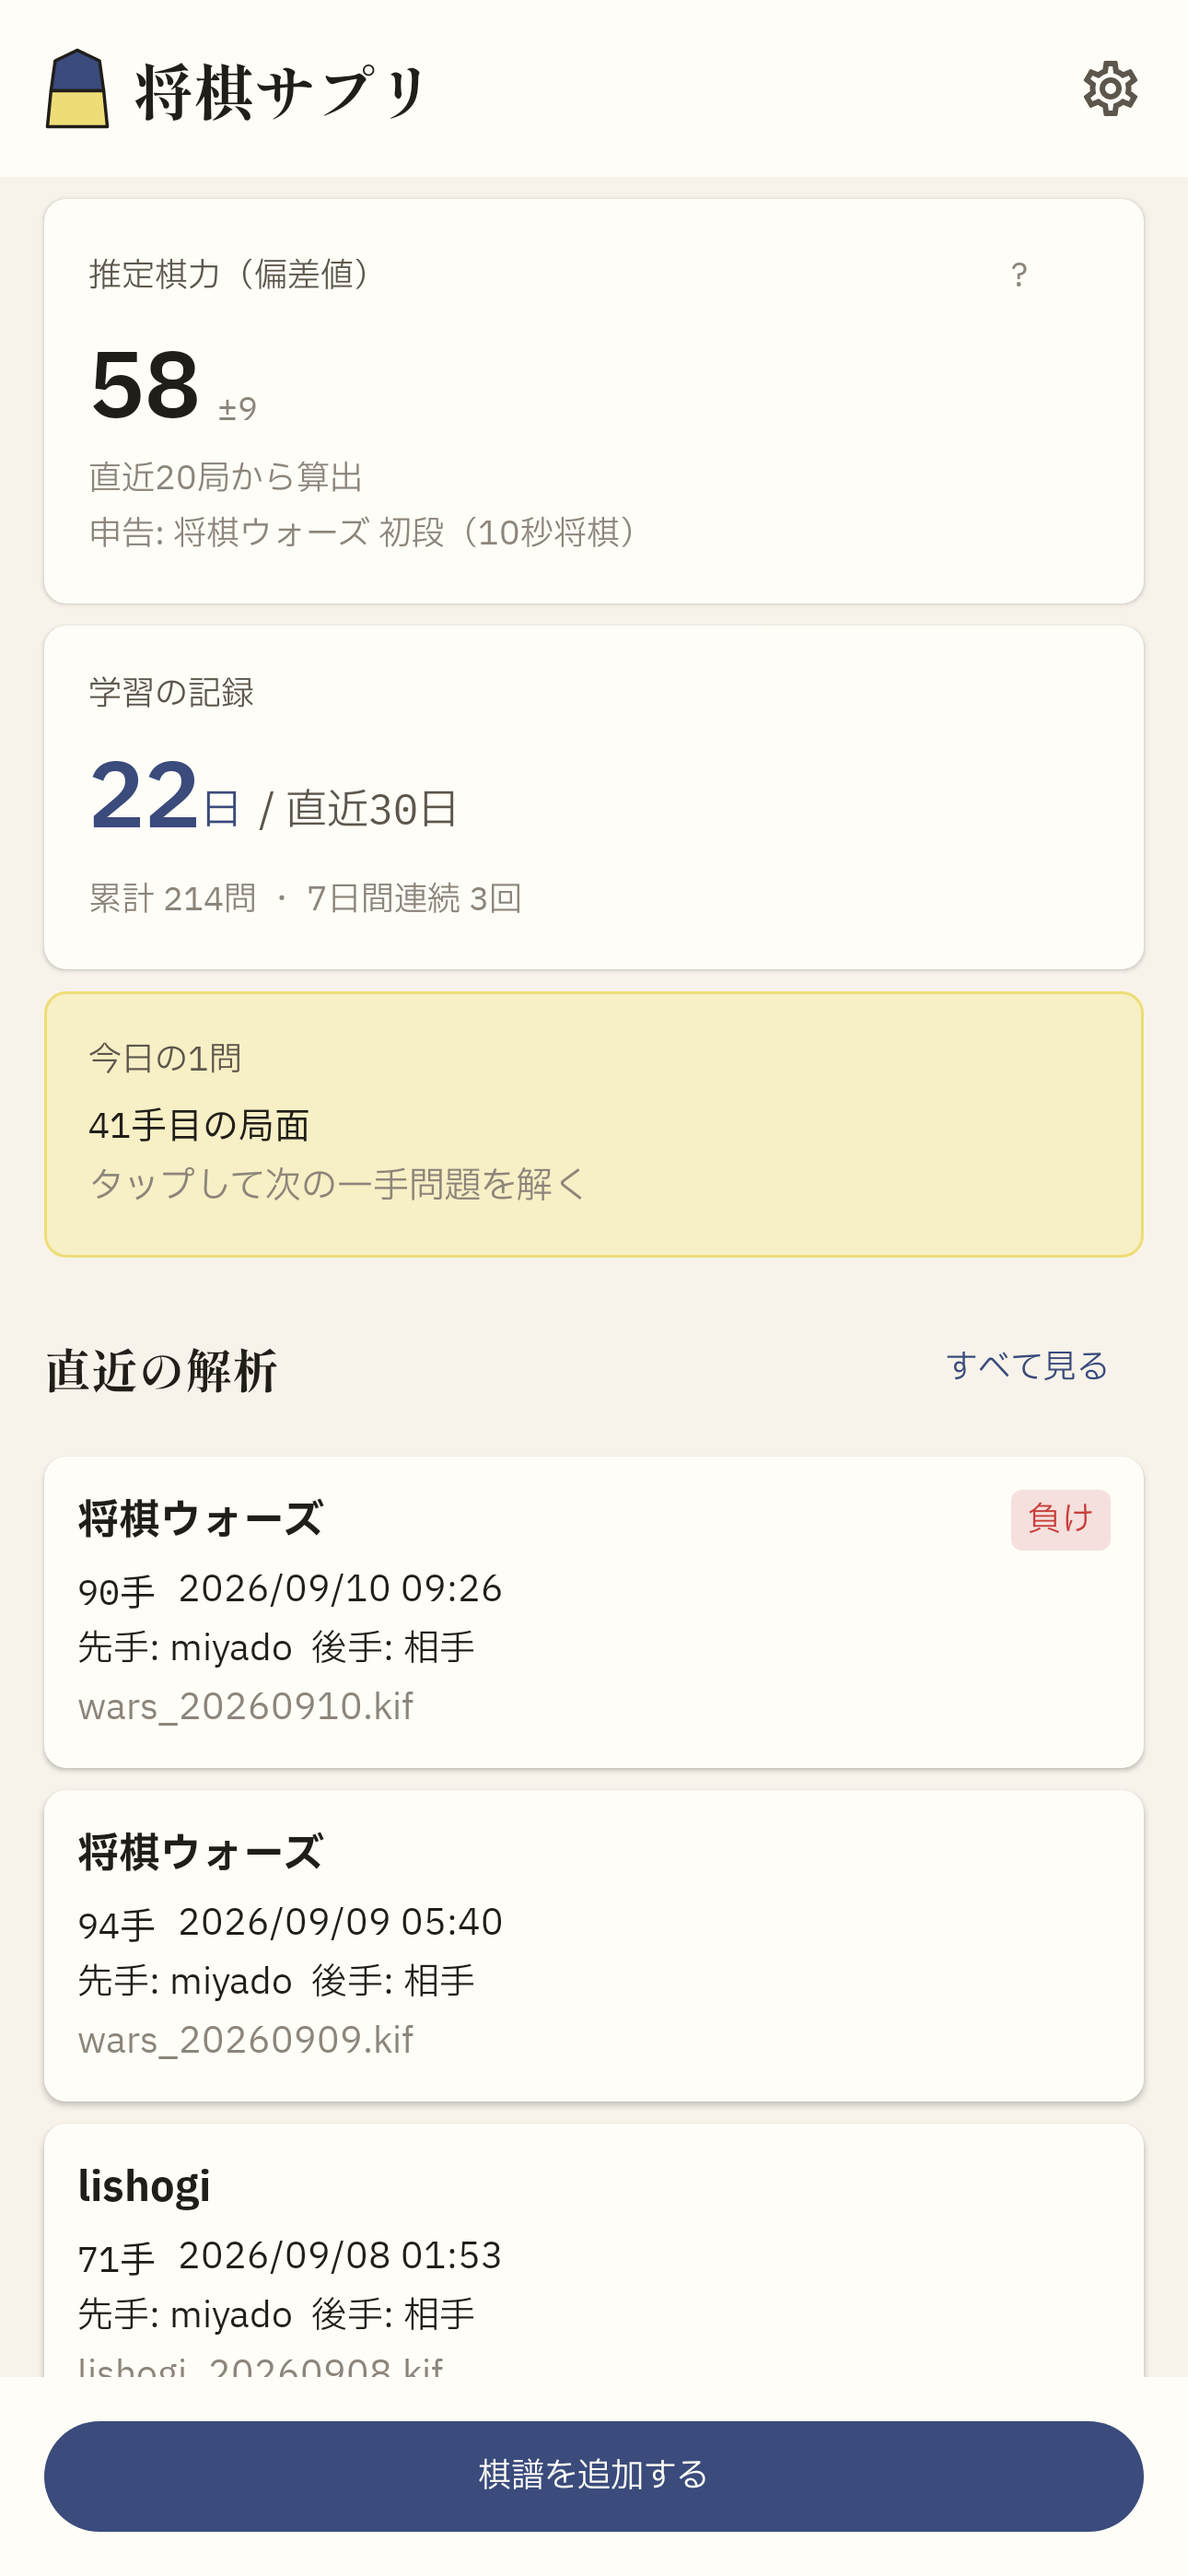
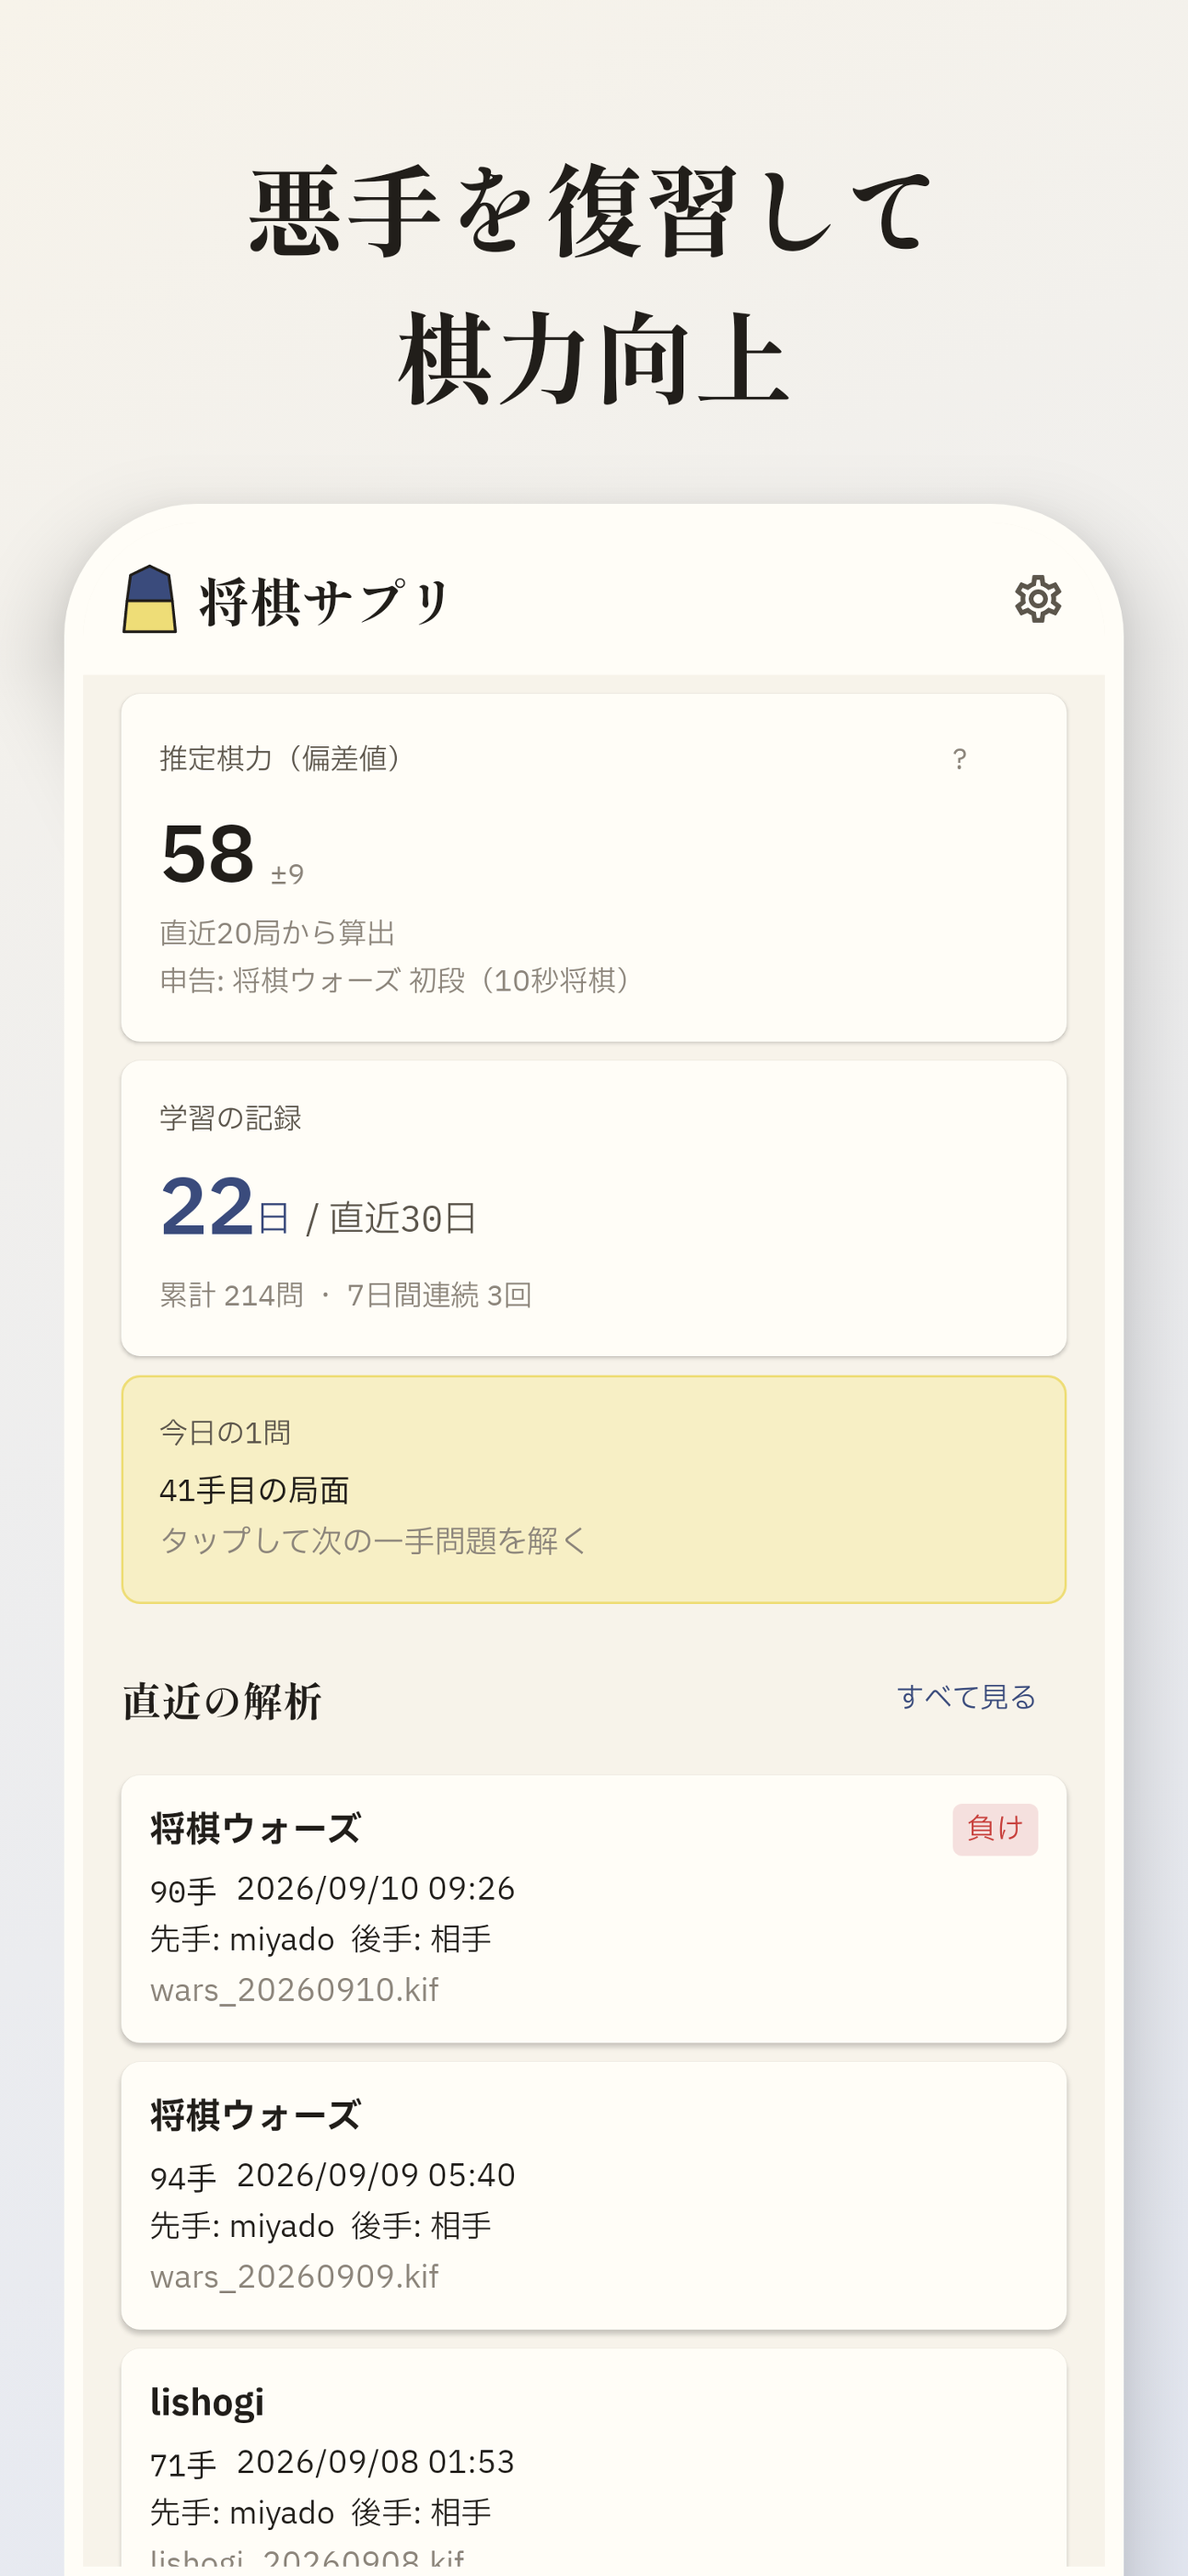
ストア画像に説明文を載せる
画面だけを7枚並べても、何ができるアプリなのかは伝わらない。
1枚ごとに見出しを立て、その下に端末の枠へ収めた画面を置く。

枚数は6枚に絞り、検討モードとレポートのダークを落として
ホームのダークを入れる（説明文の対象に合わせた）。

台紙は端末より大きいので、6.9インチ枠より大きく描いてから
書き出し時に縮める。端末の中身を実寸のレイアウトのまま出すため、
Compose側では縮小しない。

diff --git a/app/androidApp/src/test/kotlin/dev/miyado/shogisupplement/ui/StoreImageTest.kt b/app/androidApp/src/test/kotlin/dev/miyado/shogisupplement/ui/StoreImageTest.kt
@@ -1,7 +1,29 @@
 package dev.miyado.shogisupplement.ui
 
+import androidx.compose.foundation.background
+import androidx.compose.foundation.layout.Box
+import androidx.compose.foundation.layout.fillMaxSize
+import androidx.compose.foundation.layout.fillMaxWidth
+import androidx.compose.foundation.layout.offset
+import androidx.compose.foundation.layout.padding
+import androidx.compose.foundation.layout.requiredHeight
+import androidx.compose.foundation.layout.requiredSize
+import androidx.compose.foundation.layout.requiredWidth
+import androidx.compose.foundation.shape.RoundedCornerShape
 import androidx.compose.material3.Surface
+import androidx.compose.material3.Text
 import androidx.compose.runtime.Composable
+import androidx.compose.ui.Alignment
+import androidx.compose.ui.Modifier
+import androidx.compose.ui.draw.clip
+import androidx.compose.ui.draw.shadow
+import androidx.compose.ui.geometry.Offset
+import androidx.compose.ui.graphics.Brush
+import androidx.compose.ui.text.TextStyle
+import androidx.compose.ui.text.font.FontWeight
+import androidx.compose.ui.text.style.TextAlign
+import androidx.compose.ui.unit.dp
+import androidx.compose.ui.unit.sp
 import com.github.takahirom.roborazzi.ExperimentalRoborazziApi
 import com.github.takahirom.roborazzi.RoborazziOptions
 import com.github.takahirom.roborazzi.captureRoboImage
@@ -25,7 +47,13 @@ import dev.miyado.shogisupplement.ui.report.StudyCandidate
 import dev.miyado.shogisupplement.ui.report.StudyEvalState
 import dev.miyado.shogisupplement.ui.report.StudyOrigin
 import dev.miyado.shogisupplement.ui.report.StudyState
+import dev.miyado.shogisupplement.ui.theme.LightBg
+import dev.miyado.shogisupplement.ui.theme.LightInk
+import dev.miyado.shogisupplement.ui.theme.LightPrimarySoft
+import dev.miyado.shogisupplement.ui.theme.LightSurface
+import dev.miyado.shogisupplement.ui.theme.ShipporiMinchoFamily
 import dev.miyado.shogisupplement.ui.theme.ShogiTheme
+import java.awt.RenderingHints
 import java.awt.image.BufferedImage
 import java.io.File
 import javax.imageio.ImageIO
@@ -37,14 +65,14 @@ import org.robolectric.RobolectricTestRunner
 import org.robolectric.annotation.Config
 import org.robolectric.annotation.GraphicsMode
 
-// 430x932dp・xxhdpi = 1290x2796px は App Store Connect の6.9インチ枠。
 // Why not ステータスバーとホームインジケータも描く: OSのUIを描き足すと実機を騙ることになる。
-/** ストア掲載画像を書き出す。 */
+/** ストア掲載画像（見出し＋端末の枠）を書き出す。 */
 @RunWith(RobolectricTestRunner::class)
 @GraphicsMode(GraphicsMode.Mode.NATIVE)
 @Config(
     sdk = [34],
-    qualifiers = "w430dp-h932dp-xxhdpi",
+    // 台紙は端末（[PhoneWidth]）より大きく、縦横比は [OutputWidthPx]:[OutputHeightPx] に合わせる。
+    qualifiers = "w500dp-h1084dp-xxhdpi",
     application = android.app.Application::class,
 )
 class StoreImageTest {
@@ -58,32 +86,39 @@ class StoreImageTest {
         assumeTrue(System.getProperty(STORE_IMAGE_PROPERTY) == "true")
     }
 
-    private fun capture(fileName: String, content: @Composable () -> Unit) {
+    private fun capture(fileName: String, caption: String, screen: @Composable () -> Unit) {
         val path = "../iosApp/fastlane/screenshots/ja/$fileName.png"
-        captureRoboImage(filePath = path, roborazziOptions = storeRoborazziOptions, content = content)
-        dropAlphaChannel(File(path))
+        captureRoboImage(filePath = path, roborazziOptions = storeRoborazziOptions) {
+            StoreCard(caption = caption, screen = screen)
+        }
+        finalizeImage(File(path))
     }
 
-    /** App Store Connect は透過を含むスクリーンショットを受け付けない。書き出しはRGBAなので落とす。 */
-    private fun dropAlphaChannel(file: File) {
+    /**
+     * 提出枠へ縮小し、アルファチャンネルを落とす。
+     * Why not 提出枠のまま描く: 端末の中身を実寸（[PhoneWidth]）で組み立てたいので、
+     * 台紙は端末より大きい。App Store Connect は透過を含む画像も受け付けない。
+     */
+    private fun finalizeImage(file: File) {
         val source = ImageIO.read(file)
-        val opaque = BufferedImage(source.width, source.height, BufferedImage.TYPE_INT_RGB)
-        opaque.createGraphics().apply {
-            drawImage(source, 0, 0, null)
+        val output = BufferedImage(OutputWidthPx, OutputHeightPx, BufferedImage.TYPE_INT_RGB)
+        output.createGraphics().apply {
+            setRenderingHint(RenderingHints.KEY_INTERPOLATION, RenderingHints.VALUE_INTERPOLATION_BICUBIC)
+            setRenderingHint(RenderingHints.KEY_RENDERING, RenderingHints.VALUE_RENDER_QUALITY)
+            setRenderingHint(RenderingHints.KEY_ANTIALIASING, RenderingHints.VALUE_ANTIALIAS_ON)
+            drawImage(source, 0, 0, OutputWidthPx, OutputHeightPx, null)
             dispose()
         }
-        ImageIO.write(opaque, "png", file)
+        ImageIO.write(output, "png", file)
     }
 
-    private fun themed(content: @Composable () -> Unit): @Composable () -> Unit = {
-        ShogiTheme { Surface { content() } }
-    }
 
     @Test
     fun `01 home`() {
         capture(
             "01_home",
-            themed {
+            "悪手を復習して\n棋力向上",
+            {
                 HomeScreen(
                     pastGames = storeGames,
                     isLoggedIn = true,
@@ -109,25 +144,52 @@ class StoreImageTest {
     }
 
     @Test
-    fun `02 report graph`() {
-        capture("02_report_graph", themed { StoreReport() })
+    @Config(qualifiers = "+night")
+    fun `02 home dark`() {
+        capture(
+            "02_home_dark",
+            "ダークモードも対応",
+            {
+                HomeScreen(
+                    pastGames = storeGames,
+                    isLoggedIn = true,
+                    strengthCard = StrengthCardData(
+                        displayText = "58 ±9",
+                        detailText = "直近20局から算出",
+                        declaredRankLine = "申告: 将棋ウォーズ 初段（10秒将棋）",
+                    ),
+                    todaysDrillHint = TodaysDrillHint(ply = 41L),
+                    drillRecordCard = DrillRecordCardData(
+                        activeDaysInWindow = 22,
+                        windowDays = 30,
+                        totalAttempts = 214,
+                        weekStreakCount = 3,
+                    ),
+                    onOpenKif = {},
+                    onGameClick = {},
+                    onStartDrill = {},
+                    onViewAllGames = {},
+                )
+            },
+        )
     }
 
     @Test
-    fun `03 blunder list`() {
-        capture("03_blunder_list", themed { StoreReport(showBlunderList = true) })
+    fun `03 report graph`() {
+        capture("03_report_graph", "形勢をグラフで確認") { StoreReport() }
     }
 
     @Test
-    fun `04 study`() {
-        capture("04_study", themed { StoreReport(studyState = storeStudyState) })
+    fun `04 blunder list`() {
+        capture("04_blunder_list", "ポイントとなる\n悪手をピックアップ") { StoreReport(showBlunderList = true) }
     }
 
     @Test
     fun `05 drill question`() {
         capture(
             "05_drill_question",
-            themed {
+            "自分の棋譜から\n問題を出題",
+            {
                 DrillQuestionContent(
                     state = DrillUiState.Question(
                         blunder = storeBlunder,
@@ -151,7 +213,8 @@ class StoreImageTest {
     fun `06 drill result`() {
         capture(
             "06_drill_result",
-            themed {
+            "正解は AI で判定",
+            {
                 DrillResultContent(
                     result = DrillJudge.DrillResult(
                         isCorrect = true,
@@ -166,12 +229,6 @@ class StoreImageTest {
                 )
             },
         )
-    }
-
-    @Test
-    @Config(qualifiers = "+night")
-    fun `07 report dark`() {
-        capture("07_report_dark", themed { StoreReport() })
     }
 
     @Composable
@@ -197,6 +254,84 @@ class StoreImageTest {
 
 /** ビルド側（androidApp/build.gradle.kts）がテストJVMへ渡す。 */
 private const val STORE_IMAGE_PROPERTY = "shogi.storeImages"
+
+/** App Store Connect の6.9インチ枠。 */
+private const val OutputWidthPx = 1290
+private const val OutputHeightPx = 2796
+
+/** 端末の中身は6.9インチの実寸で組み立てる。縮小は画像にしてから行う。 */
+private val PhoneWidth = 430.dp
+private val PhoneHeight = 932.dp
+
+// 6枚を並べたときにキャプションの行数で端末の位置がずれないよう、見出し帯の高さは固定する。
+private val CaptionTop = 56.dp
+private val CaptionBandHeight = 136.dp
+private val DeviceTop = CaptionTop + CaptionBandHeight + 20.dp
+
+private val BezelWidth = 8.dp
+
+/**
+ * 見出し＋端末の枠の2段。端末は台紙の下端で切れる長さにして、画面の続きがあることを示す。
+ * 背景・文字色をテーマから取らない理由: ダークモードの端末を明るい台紙に載せる枚があるため。
+ */
+@Composable
+private fun StoreCard(caption: String, screen: @Composable () -> Unit) {
+    Box(
+        modifier = Modifier
+            .fillMaxSize()
+            .background(
+                Brush.linearGradient(
+                    colors = listOf(LightBg, LightPrimarySoft),
+                    start = Offset.Zero,
+                    end = Offset.Infinite,
+                ),
+            ),
+    ) {
+        Box(
+            modifier = Modifier
+                .align(Alignment.TopCenter)
+                .padding(top = CaptionTop, start = 32.dp, end = 32.dp)
+                .requiredHeight(CaptionBandHeight)
+                .fillMaxWidth(),
+            contentAlignment = Alignment.TopCenter,
+        ) {
+            Text(
+                text = caption,
+                style = TextStyle(
+                    fontFamily = ShipporiMinchoFamily,
+                    fontWeight = FontWeight.Bold,
+                    fontSize = 42.sp,
+                    lineHeight = 62.sp,
+                    textAlign = TextAlign.Center,
+                    color = LightInk,
+                ),
+            )
+        }
+
+        Box(
+            modifier = Modifier
+                .align(Alignment.TopCenter)
+                .offset(y = DeviceTop)
+                .requiredWidth(PhoneWidth + BezelWidth * 2)
+                .shadow(
+                    elevation = 20.dp,
+                    shape = RoundedCornerShape(topStart = 56.dp, topEnd = 56.dp),
+                    clip = false,
+                )
+                .clip(RoundedCornerShape(topStart = 56.dp, topEnd = 56.dp))
+                .background(LightSurface)
+                .padding(top = BezelWidth, start = BezelWidth, end = BezelWidth),
+        ) {
+            Box(
+                modifier = Modifier
+                    .requiredSize(PhoneWidth, PhoneHeight)
+                    .clip(RoundedCornerShape(topStart = 48.dp, topEnd = 48.dp)),
+            ) {
+                ShogiTheme { Surface { screen() } }
+            }
+        }
+    }
+}
 
 /** ストア画像は縮小せずそのまま書き出す（VRTのゴールデンは0.5倍で記録している）。 */
 @OptIn(ExperimentalRoborazziApi::class)

diff --git a/app/docs/release-checklist.md b/app/docs/release-checklist.md
@@ -68,9 +68,11 @@ UIが変わったリリースでは掲載画像も更新する。
 cd app && ./gradlew :androidApp:recordRoborazziDebug --tests "*StoreImageTest*" -Pshogi.storeImages=true --rerun-tasks
 ```
 
-- 書き出し先は `app/iosApp/fastlane/screenshots/ja/` の7枚（1290x2796・6.9インチ枠）。
+- 書き出し先は `app/iosApp/fastlane/screenshots/ja/` の6枚（1290x2796・6.9インチ枠）。
   差分を目で確認してから準備コミットに含める。
-- 元データは `StoreImageTest.kt` にある。文言・数値を変えたいときはそこを直す。
+- 1枚は「見出し＋端末モック」の組み。見出しの文言・画面の中身の数値はどちらも
+  `StoreImageTest.kt` にある。見出しは2行までに収める（はみ出すと端末に被る）。
+- 見出しの文言は `docs/wording.md` の対象。変えるときは表と突き合わせる。
 - `-Pshogi.storeImages=true` を付けないと1枚も書き出さない。VRTの検証
   （`verifyRoborazziDebug`）に巻き込まれて落ちないよう、明示指示のときだけ走る。
 - `--rerun-tasks` が要るのは、入力が変わっていないとGradleがテストを飛ばすため。

diff --git a/app/docs/release.md b/app/docs/release.md
@@ -100,8 +100,8 @@ fastlane版はpilotを明示的なアップロード手段にするため、`Fas
 `fastlane/metadata/ja/`（name・subtitle・promotional_text・description・keywords・
 release_notes・support_url・privacy_url）は、App Store Connectに2026-07-19時点で
 登録済みの文言（1.1のリリースノートのみ新規）をもとに作成した。
-`fastlane/screenshots/ja/` の7枚（1290×2796・6.9インチ）は `StoreImageTest` が
-Composeから書き出す。生成手順は `app/docs/release-checklist.md`。
+`fastlane/screenshots/ja/` の6枚（1290×2796・6.9インチ）は `StoreImageTest` が
+Composeから書き出す（見出し＋端末モックの組み）。生成手順は `app/docs/release-checklist.md`。
 ロケールディレクトリが `ja` なのはdeliverが `ja-JP` を受理しないため。
 
 ## 残る検証
